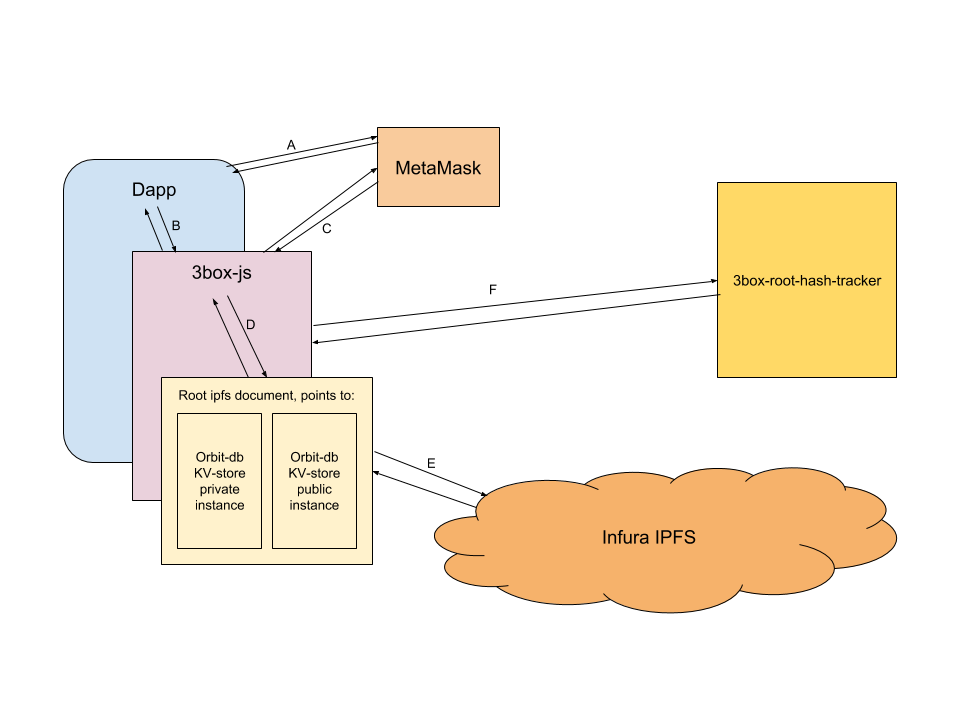
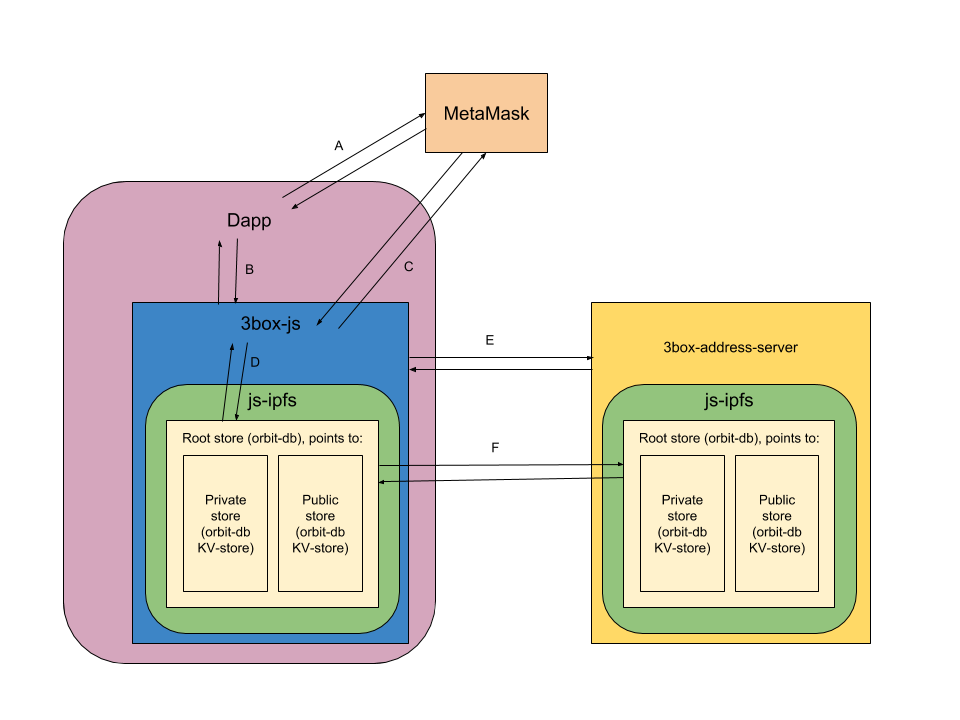
Udated architecture.md to reflect our new architecture

diff --git a/ARCHITECTURE.md b/ARCHITECTURE.md
@@ -1,36 +1,30 @@
 # 3Box Architecture
 ## Data Model
 Each user has their own root IPFS object, and associated public and private data stores. As long as the user has access to the hash of the root object, called the 3Box Hash, it can retrieve the entire data store from the IPFS network.
+Each user has two data stores. One for public data and one for private data. To keep track of these data stores there is a root store that points to the addresses of the two data stores. The user only needs to have access to the address of the root store in order to fetch all of the database content from both the private and public stores.
 
-The hash of this object is stored in the `3box-hash-server`. The hash-server also stores a mapping from a DID that is created in the `3box-js` library to this hash, as well as a mapping between the users ethereum address to the DID.
-
-![3Box Architecture Diagram](./3box_architecture_diagram.png)
+When a new database for a user is created in the `3box-js` library a DID is derived from the users ethereum address. A mapping from the ethereum address to the DID and from the DID to the root store address are stored on the `3box-address-server`. This server also pins the ipfs data from the users stores so that it's always available.
 
 
-### Root Object
-The root object is an IPLD formated ipfs object that contains a link to the latest hash of the public profile and a link to the latest hash of the private data store. It have the following structure:
+### Root store
+The root store is an orbitdb `feed`, basically a list of entries. The `feed` store allows us to add and remove entries. In our case we would add two entries to this feed, one for each store (with the possibility of adding more stores in the future).
 
-```js
-{
-  profile: {"/" : "zdpuAufy3hawb25akerURtR81y7D4BKfdxfqbpYZ7cJGjwgFW"},
-  datastore: {"/" : "zdpuAufy3hawb25akerURtR81y7D4BKfdxfqbpYZ7cJGjwgDS"}
-}
+The two entries would be the orbitdb addresses for the public and private stores. For example these could look like:
 ```
+ /orbitdb/Qmd8TmZrWASypEp4Er9tgWP4kCNQnW4ncSnvjvyHQ3EVSU/<user-fingerprint>.public
+```
+for the public store and
+```
+ /orbitdb/Qmd8TmZrWASypEp4Er9tgWP4kCNQnW4ncSnvjvyHQ3EVSU/<user-fingerprint>.private
+```
+for the private store. Here `<user-fingerprint>` is the multihash of the users DID.
+
 
 ### Public Profile
-The public profile is an IPLD formated ipfs object that contains the public information about the user such as name and picture. We use the Profile scheme from <http://schema.org/>, with extensions by [Blockstack](https://github.com/blockstack/blockstack.js/tree/master/src/profiles), and using IPLD links. We start with just the items `name` and `image`. Note that the `image` field is an array.
-
-```js
-{
-  "@context": "http://schema.org/",
-  "@type": "Person",
-  "name" : "Christian",
-  "image" : [{"@type": "ImageObject", "contentUrl": {"/" : "QmXXXX"}}].
-}
-```
+The public profile store is a orbitdb keyvalue-store.
 
 ### Private Data Store
-The private data store is an orbit-db KV-store with additional encryption. 
+The private data store is an orbit-db KV-store with additional encryption.
 
 #### Encryption
 The encryption scheme for adding a key-value entry would work as follows:
@@ -46,23 +40,40 @@ We can now store `key` and `value` in the orbit-db KV-store using the `put` meth
 
 Optionally we can add an index of encrypted keys to the db.
 
-
 ## How it Works
 Here's a technical walkthorough of how the system works.
+
+![3Box Architecture Diagram](./3box_architecture_diagram.png)
+
+### Creating a user profile
 
 **A.** The dapp gets the users address from MetaMask (or any web3 compliant browser)
 
 **B.** Dapp request public or private data from the users 3box
 
-**C.** 3box-js MM interactions
-  1. 3box-js requests consent for storing and retrieving private and public data. The signature is used as key material when creating the 3box DID.
-  2. 3box-js requests consent for linking the public profile to the users ethereum address
+**C.** `3box-js` MM interactions
+  1. `3box-js` requests consent for storing and retrieving private and public data. The signature is used as key material when creating the 3box DID.
+  2. `3box-js` requests consent for linking the public profile to the users ethereum address
 
-**D.** 3box-js stores and retrieves data from ipfs. Using two separate orbit-db instances for public and private data, and a separate ipfs objects which always links to the latest hash of the two orbit-db instances.
+**D.** `3box-js` creates the root, private, and public stores. Then adds data to these stores.
 
-**E.** All ipfs data is automatically pinned in the infura ipfs cloud.
+**E.** `3box-js` sends the orbitdb address of the root store and the profile link to the `3box-address-server`. The server creates an instance of the users stores and syncs them.
 
-**F.** 3box-js hash-server interactions
-  1. 3box-js publishes the link between ethereum address and DID
-  2. 3box-js publishes a new root hash (this is the hash of the latest ipfs object linking to the two orbit-db instances)
+**F.** Any updates that are made to any of the stores are replicated on the `3box-address-server` using orbitdb's internal replication system.
+
+
+### Accessing user data
+
+**A.** *Same as above*
+
+**B.** *Same as above*
+
+**C.** `3box-js` MM interactions
+  1. `3box-js` requests consent for storing and retrieving private and public data. The signature is used as key material when creating the 3box DID.
+
+**E.** `3box-js` sends a request to the `3box-address-server` to get the address of the root store.
+
+**D.** `3box-js` syncs the root, private, and public store. Any data in the database can now be accessed.
+
+**F.** *Same as above*
 
